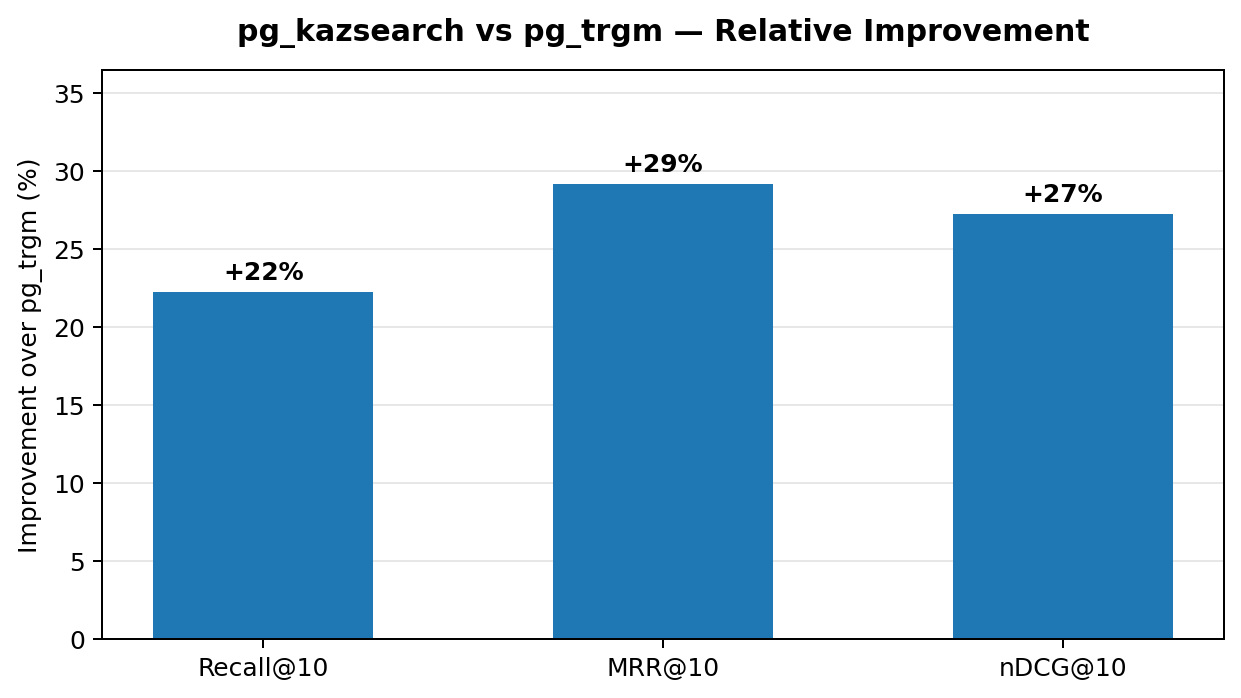
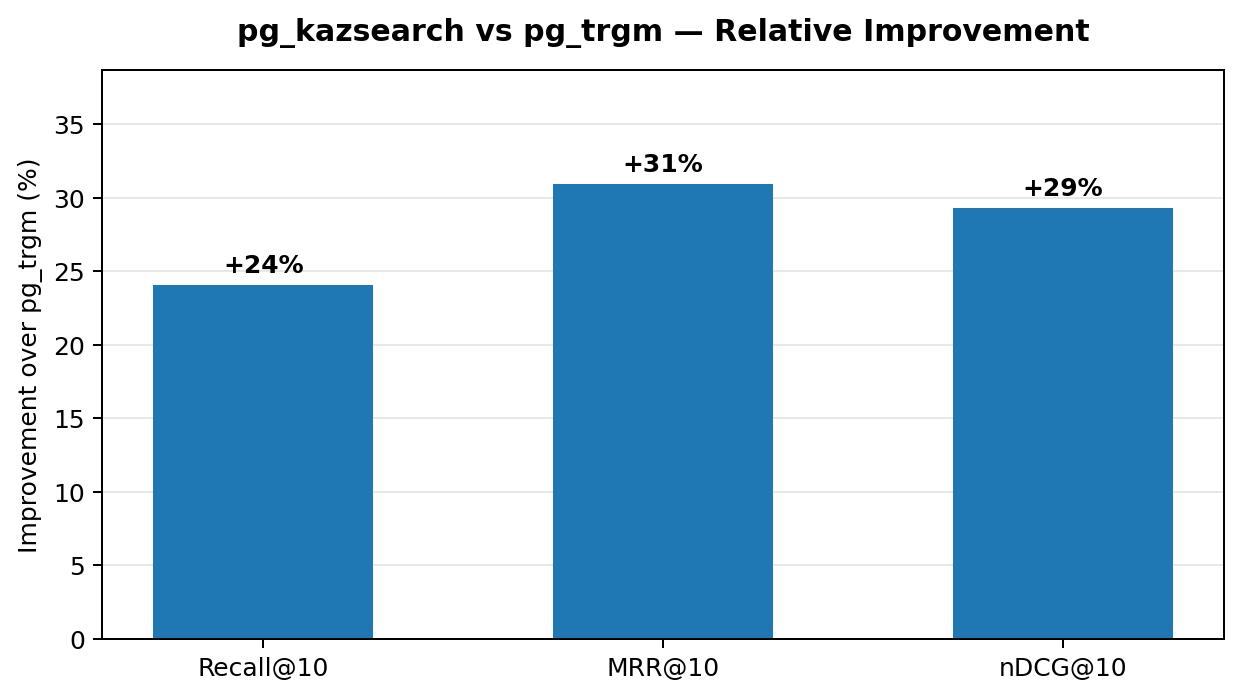
docs: refresh benchmarks with gold_v2 results and post-lever coverage
gold_v2 (132 pooled-judgment human queries) is now the primary
benchmark: R@10 0.496 vs 0.187 without stemming (~2.7x). Charts
regenerated from the final report; coverage numbers updated for the
Phase 2 levers (74.8% analyzed, 86.7% recognized).

diff --git a/README.md b/README.md
@@ -227,9 +227,10 @@ CLI uses the same core default (`auto`) and exposes `--cyrillic-only` on `stem`,
 
 ## Benchmarks
 
-Tested on 2,999 Kazakh news articles from [kaz.tengrinews.kz](https://kaz.tengrinews.kz/). Queries fall into two groups that must be read differently:
+Tested on 2,999 Kazakh news articles from [kaz.tengrinews.kz](https://kaz.tengrinews.kz/). Queries fall into three groups that must be read differently:
 
-- **gold** (n=51): human-written search queries with manually judged relevance — the honest measure of real-world quality
+- **gold_v2** (n=132): human-written queries across 39 themes with deliberate morphological variety, URL-keyed, relevance judged over a pooled top-15 union of three retrieval systems, with a blind 20% re-judgment (95.9% agreement, Cohen's κ 0.899) and adjudicated disagreements — the primary quality benchmark (`eval/gold_queries_v2.jsonl`, methodology in `eval/gold_queries_v2.meta.json`)
+- **gold** (n=51): the older, smaller human-written set, kept for continuity
 - **auto** (n=8,997): queries mined from the indexed articles themselves (title keywords, body sentences, artificially inflected variants) — useful for regression testing, but *circular*: they overstate absolute quality because each query is derived from the document it must find
 
 All numbers below are reproduced by `just eval-search` and written to `eval/results/report.json` (charts are generated from that file, never hardcoded).
@@ -240,11 +241,12 @@ Recall@10, same corpus, same ranking, only the dictionary differs:
 
 | Query set                  | pg_kazsearch | `simple` (no stem) | Effect |
 | -------------------------- | ------------ | ------------------ | ------ |
-| gold (human, n=51)         | **0.199**    | 0.102              | ~2x recall |
-| morpho_variant (inflected) | **0.442**    | 0.005              | ~94x — stemming is essential for suffixed queries |
+| gold_v2 (human, n=132)     | **0.496**    | 0.187              | ~2.7x recall (95% CI [0.44, 0.56]) |
+| gold (human, n=51)         | **0.202**    | 0.102              | ~2x recall |
+| morpho_variant (inflected) | **0.444**    | 0.005              | ~94x — stemming is essential for suffixed queries |
 | title_keywords (verbatim)  | 0.986        | 0.992              | no stemming needed for exact-word matches |
 
-Human queries in Kazakh naturally contain inflected forms, which is exactly where the stemmer pays off. Absolute gold-set scores are low partly because gold queries expect up to 10 relevant documents and the corpus is small.
+Human queries in Kazakh naturally contain inflected forms, which is exactly where the stemmer pays off. gold_v2 MRR@10 is 0.697 vs 0.420 without stemming.
 
 ### PostgreSQL: pg_kazsearch vs pg_trgm
 
@@ -252,9 +254,9 @@ Head-to-head on the same 500-query sample (seeded, reproducible):
 
 | Metric    | pg_kazsearch | pg_trgm | Improvement |
 | --------- | ------------ | ------- | ----------- |
-| Recall@10 | **0.772**    | 0.632   | +22%        |
-| MRR@10    | **0.703**    | 0.544   | +29%        |
-| nDCG@10   | **0.718**    | 0.565   | +27%        |
+| Recall@10 | **0.768**    | 0.619   | +24%        |
+| MRR@10    | **0.705**    | 0.539   | +31%        |
+| nDCG@10   | **0.717**    | 0.555   | +29%        |
 
 Note: pg_trgm here matches against titles only (its typical usage); the sample is dominated by auto-queries, so treat this as a relative comparison, not an absolute quality claim.
 
@@ -264,9 +266,9 @@ Measured over 45,708 corpus tokens with `python3 eval/measure_stem_coverage.py`:
 
 | Rate | Value | Meaning |
 | ---- | ----- | ------- |
-| Analyzed | 74.5% | a suffix was stripped |
-| Stem in lexicon | 66.3% | final stem is a dictionary lemma |
-| Recognized | **86.4%** | stemmed or already a dictionary lemma |
+| Analyzed | 74.8% | a suffix was stripped |
+| Stem in lexicon | 67.3% | final stem is a dictionary lemma |
+| Recognized | **86.7%** | stemmed or already a dictionary lemma |
 
 
 ### Elasticsearch: kazsearch_stem vs standard analyzer

diff --git a/AGENTS.md b/AGENTS.md
@@ -2,7 +2,7 @@
 
 ## What This Is
 
-Kazakh stemmer for PostgreSQL full-text search. BFS suffix-stripping over ordered morphological layers (noun: DERIV→PLUR→POSS→CASE→PRED, verb: VVOICE→VNEG→VTENSE→VPERSON) with vowel harmony enforcement, penalty-based candidate scoring, optional lexicon verification, and morphophonological stem repair. Token coverage (measured by `eval/measure_stem_coverage.py` over 45.7k corpus tokens): 74.5% analyzed, 86.4% recognized (stemmed or dictionary lemma).
+Kazakh stemmer for PostgreSQL full-text search. BFS suffix-stripping over ordered morphological layers (noun: DERIV→PLUR→POSS→CASE→PRED, verb: VVOICE→VNEG→VTENSE→VPERSON) with vowel harmony enforcement, penalty-based candidate scoring, optional lexicon verification, and morphophonological stem repair. Token coverage (measured by `eval/measure_stem_coverage.py` over 45.7k corpus tokens): 74.8% analyzed, 86.7% recognized (stemmed or dictionary lemma).
 
 No prior Kazakh stemmer exists for PostgreSQL or Elasticsearch. This is the first.
 